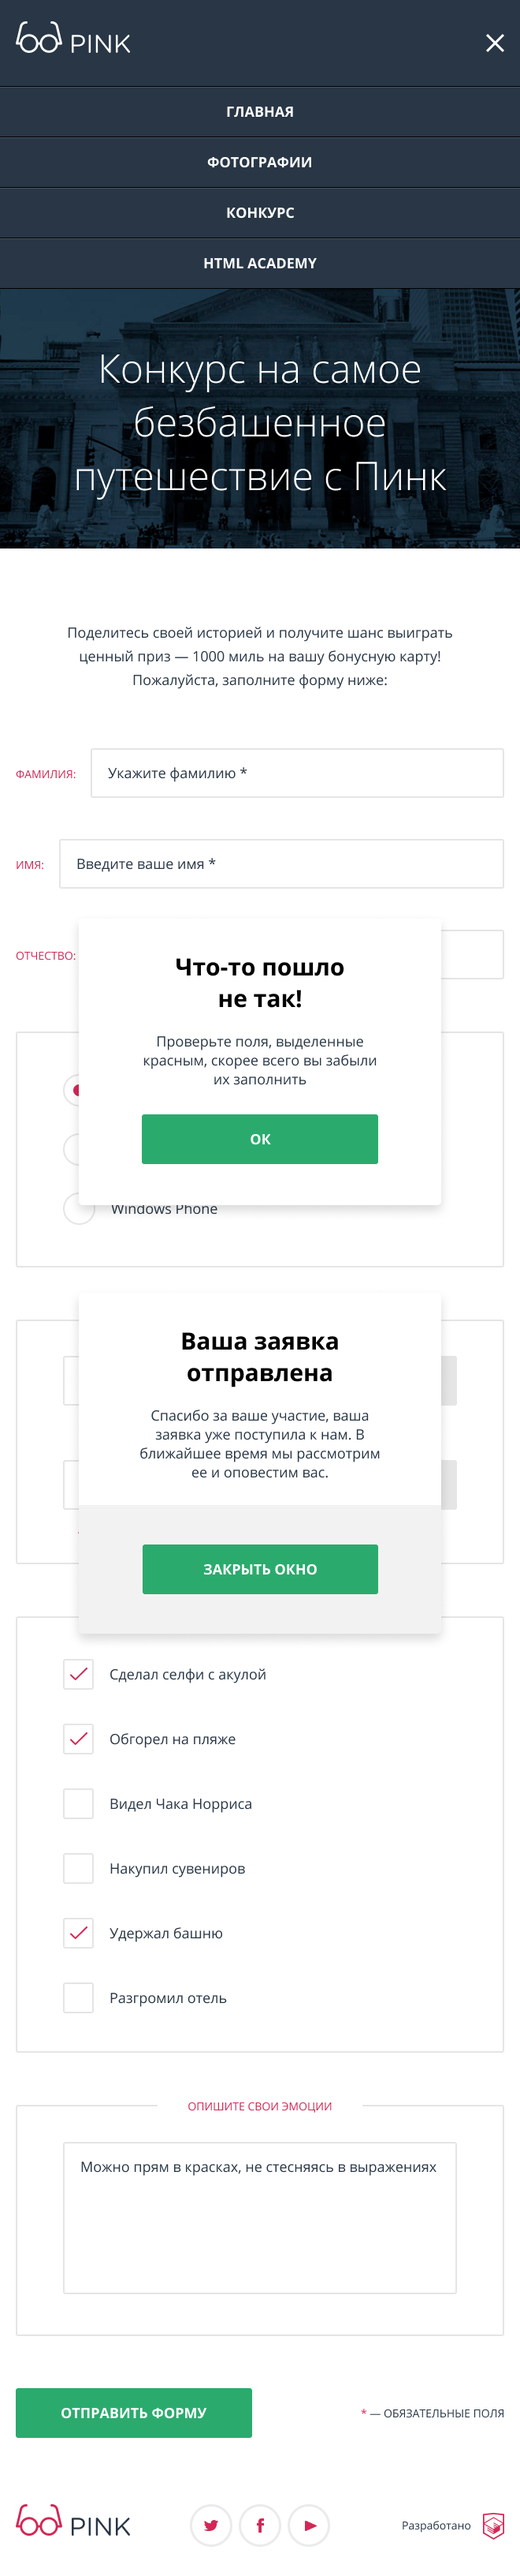
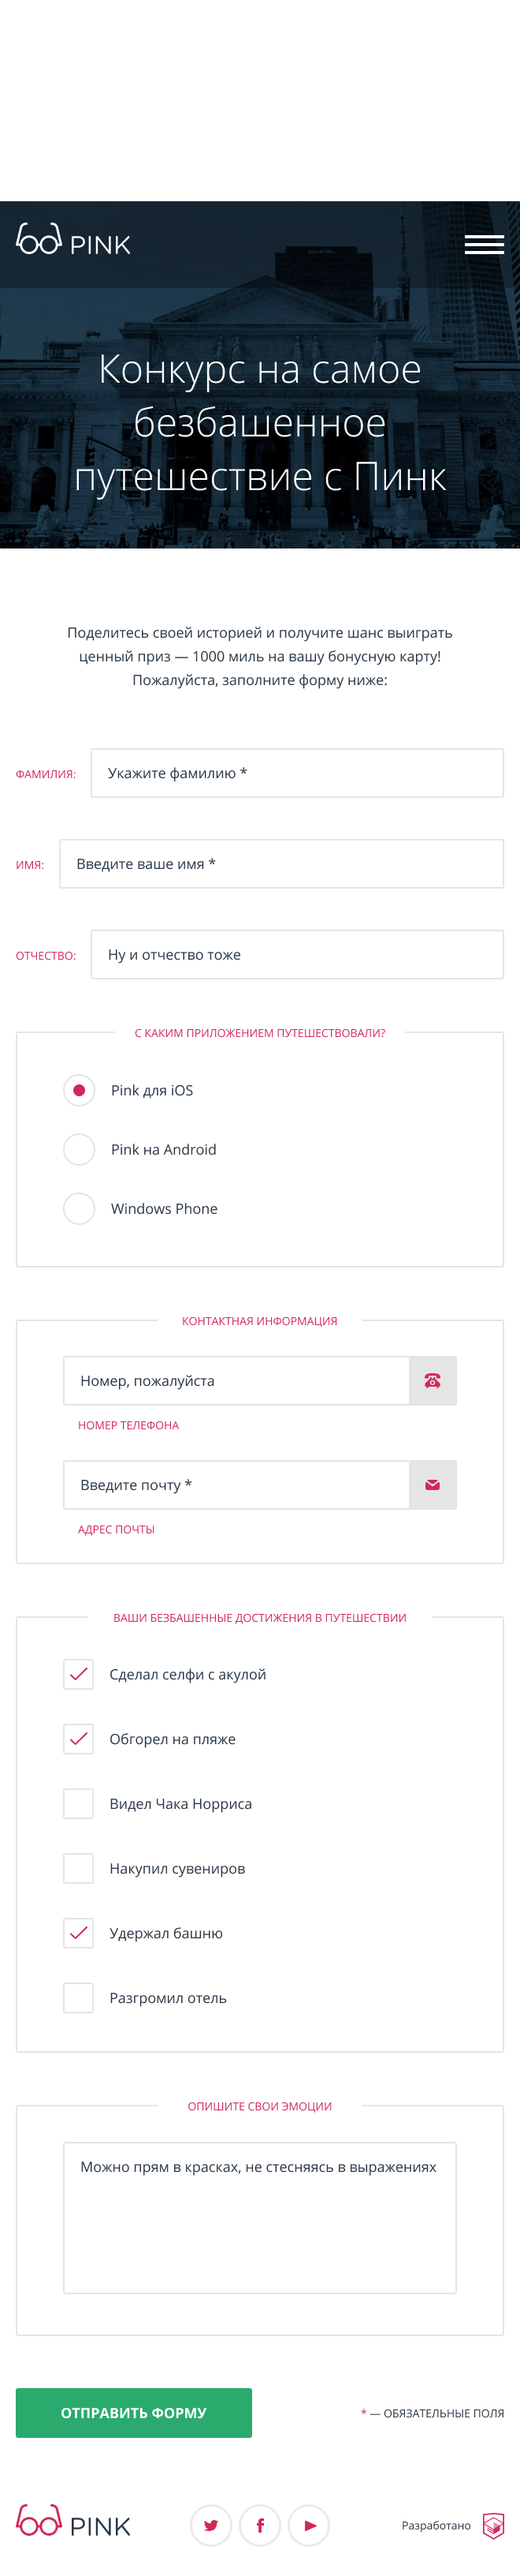
Форма, стили

diff --git a/source/sass/contest/contest.scss b/source/sass/contest/contest.scss
@@ -8,6 +8,15 @@
   padding-right: 20px;
   width: 280px;
   margin: 27px auto 45px;
+
+  @media (min-width: $tablet-width) {
+    font-weight: 300;
+    font-size: 50px;
+    line-height: 68px;
+    width: 620px;
+    margin-top: 65px;
+    margin-bottom: 62px;
+  }
 }
 
 .contest__subtitle {
@@ -20,10 +29,31 @@
   margin: 42px auto 17px;
   padding-left: 20px;
   padding-right: 20px;
+
+  @media (min-width: $tablet-width) {
+    font-weight: 400;
+    font-size: 18px;
+    line-height: 30px;
+    width: 490px;
+    margin-top: 90px;
+    margin-bottom: 70px;
+  }
+}
+
+.contest__subtitle span {
+  display: none;
+
+  @media (min-width: $tablet-width) {
+    display: block;
+  }
 }
 
 .contest__form {
   display: grid;
+
+  @media (min-width: $tablet-width) {
+    grid-template-areas: "name" "app" "contacts" "progress" "emotion";
+  }
 }
 
 .form__user-name,
@@ -36,12 +66,34 @@
   width: 280px;
   margin: 0 auto;
   padding: 0 20px 36px;
+
+  @media (min-width: $tablet-width) {
+    width: 620px;
+  }
+}
+
+.form__user-name {
+  @media (min-width: $tablet-width) {
+  grid-area: name;
+
+  padding-bottom: 5px;
+  }
 }
 
 .user-name__input-wrap,
 .contacts__input-wrap {
   display: flex;
   flex-direction: column;
+}
+
+.user-name__input-wrap {
+  @media (min-width: $tablet-width) {
+    flex-direction: row;
+    align-items: baseline;
+    flex-basis: auto;
+    flex-shrink: 0;
+    margin-bottom: 50px;
+  }
 }
 
 .user-name__input::placeholder,
@@ -57,6 +109,7 @@
 }
 
 .user-name__label,
+.contacts__title,
 .progress__title,
 .contacts__label,
 .app__title,
@@ -74,6 +127,12 @@
   padding: 20px 20px;
   border: 2px solid $grey-light;
   border-radius: 1px;
+}
+
+.user-name__input {
+  @media (min-width: $tablet-width) {
+    flex: 1 1 auto;
+  }
 }
 
 .user-name__input:hover,
@@ -94,30 +153,67 @@
   padding: 19px 25px 6px;
 }
 
+.user-name__label {
+  @media (min-width: $tablet-width) {
+    padding-left: 0px;
+    padding-right: 20px;
+  }
+}
+
 .form__progress,
 .form__app {
-  border: none;
-  background-color: $grey-background-effect;
   display: flex;
   flex-direction: column;
   position: relative;
-  padding-top: 115px;
-  padding-bottom: 0;
-  margin-bottom: 10px;
+
+  @media (max-width: $mobile-max-width) {
+    border: none;
+    background-color: $grey-background-effect;
+    padding-top: 115px;
+    padding-bottom: 0;
+    margin-bottom: 10px;
+    text-align: left;
+  }
+
+  @media (min-width: $tablet-width) {
+    box-sizing: border-box;
+    width: 620px;
+    margin: 0 auto;
+  }
 }
 
+.form__progress {
+  @media (min-width: $tablet-width) {
+    grid-area: progress;
+  }
+}
+
+.contacts__title,
 .progress__title,
 .app__title {
-  line-height: 18px;
-  text-align: center;
+  @media (max-width: $mobile-max-width) {
+    line-height: 18px;
+    text-align: center;
 
-  position: absolute;
-  width: 280px;
-  top: 40px;
-  left: 0;
-  bottom: 0;
-  right: 0;
-  margin: 0 auto;
+    position: absolute;
+    width: 280px;
+    top: 40px;
+    left: 0;
+    bottom: 0;
+    right: 0;
+    margin: 0 auto;
+  }
+
+  display: inline-block;
+  text-align: center;
+  padding-left: 25px;
+  padding-right: 25px;
+}
+
+.contacts__title {
+  @media (max-width: $mobile-max-width) {
+    display: none;
+  }
 }
 
 .progress__label {
@@ -128,6 +224,11 @@
   padding-right: 10px;
   box-sizing: border-box;
   position: relative;
+
+  @media (min-width: $tablet-width) {
+    width: 620px;
+    padding-right: 119px;
+  }
 }
 
 .progress__label::before {
@@ -163,6 +264,27 @@
   border: 2px solid $pink-basic;
 }
 
+.form__contacts {
+  @media (min-width: $tablet-width) {
+    grid-area: contacts;
+
+    box-sizing: border-box;
+    border: 2px solid $grey-light;
+    padding-bottom: 42px;
+  }
+}
+
+.form__app {
+  @media (min-width: $tablet-width) {
+    grid-area: app;
+
+    border: 2px solid $grey-light;
+    padding-top: 42px;
+    padding-bottom: 8px;
+    margin-bottom: 52px;
+  }
+}
+
 .app__label {
   width: 280px;
   margin: 0 auto;
@@ -171,6 +293,11 @@
   padding-right: 10px;
   box-sizing: border-box;
   position: relative;
+
+  @media (min-width: $tablet-width) {
+    width: 580px;
+    padding-left: 100px;
+  }
 }
 
 .app__label::before {
@@ -182,7 +309,7 @@
   border: 2px solid $grey-light;
   border-radius: 50%;
   top: -6px;
-  left: 0;
+  left: 40px;
 }
 
 .app__input:checked + .app__label::after {
@@ -192,7 +319,7 @@
   height: 15px;
   background-color: $pink-basic;
   border-radius: 50%;
-  left: 13px;
+  left: 53px;
   top: 7px;
 }
 
@@ -206,6 +333,12 @@
 
 .app__input:active:checked + .app__label::before {
   border: 2px solid $pink-basic;
+}
+
+.form__emotion {
+  @media (min-width: $tablet-width) {
+    grid-area: emotion;
+  }
 }
 
 .emotion__title {

diff --git a/source/contest.html b/source/contest.html
@@ -29,7 +29,7 @@
     </div>
     <main>
       <section>
-        <h2 class="contest__subtitle">Поделитесь своей историей и получите шанс выиграть ценный приз — 1000 миль на вашу бонусную карту!</h2>
+        <h2 class="contest__subtitle">Поделитесь своей историей и получите шанс выиграть ценный приз — 1000 миль на вашу бонусную карту!<span>Пожалуйста, заполните форму ниже:</span></h2>
         <form class="contest__form form" action="https://echo.htmlacademy.ru" method="get">
           <fieldset class="form__user-name user-name">
             <div class="user-name__input-wrap">
@@ -61,6 +61,7 @@
             <label class="progress__label" for="hotel">Разгромил отель</label>
           </fieldset>
           <fieldset class="form__contacts contacts">
+            <legend class="contacts__title">Контактная информация</legend>
             <div class="contacts__input-wrap">
               <label class="contacts__label" for="phone">Номер телефона</label>
               <input class="contacts__input" type="tel" id="phone" name="phone" placeholder="Номер, пожалуйста" required>

diff --git a/source/sass/wrap-header-and-intro/header/header.scss b/source/sass/wrap-header-and-intro/header/header.scss
@@ -3,6 +3,7 @@
   flex-direction: column;
   justify-content: center;
   align-items: center;
+  position: relative;
 
   @media (min-width: $desktop-width) {
     flex-direction: row;
